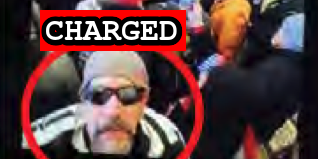
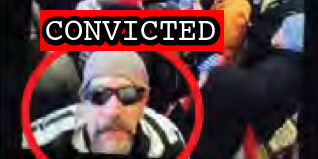
Latest import

Changed region(s): [[0.1132, 0.0503, 0.7075, 0.327]]

diff --git a/docs/_suspects/alan-byerly.md b/docs/_suspects/alan-byerly.md
@@ -4,15 +4,17 @@ lastName: Byerly
 hashtag: GreyBeanieMeanie
 aka:
 residence: Pennsylvania
-status: Indicted
+status: Convicted
 date: 2021-06-25
 charged: 2021-06-25
 indicted: 2021-08-20
-convicted:
+convicted: 2022-07-25
+acquitted:
 sentenced:
 dismissed:
 deceased:
-plea_hearing:
+plea_hearing: 2022-07-25
+trial_date:
 sentencing:
 age: 54
 occupation:
@@ -31,14 +33,25 @@ description: Click for latest case details. Suspects innocent until proven guilt
 author: seditiontrack
 layout: suspect
 published: true
-caseNumber:
+caseNumber: 1:21-cr-527
 videos:
 charges:
+  - code: 18 USC § 111(a)(1)
+    title: Assaulting, resisting, or impeding certain officers or employees
+    url: https://www.law.cornell.edu/uscode/text/18/111
+    felony: true
+  - code: 18 USC § 113(a)(4)
+    title: Assault by striking, beating or wounding
+    url: https://www.law.cornell.edu/uscode/text/18/113
+    felony: false
 sentence:
 ---
+
 - [News Report](https://philadelphia.cbslocal.com/2021/07/07/alan-william-byerly-capitol-riots-arrest/)
 - [Statement of Facts](https://www.justice.gov/usao-dc/case-multi-defendant/file/1409211/download)
 - [Incriminating Evidence (VIDEO)](https://twitter.com/capitolhunters/status/1412810756236595201)
 - [Detention Memo](https://extremism.gwu.edu/sites/g/files/zaxdzs2191/f/Alan%20Byerly%20Government%20Motion%20and%20Memorandum%20for%20Pretrial%20Detention.pdf)
-- [Indictment](https://extremism.gwu.edu/sites/g/files/zaxdzs2191/f/Alan%20Byerly%20Indictment.pdf)
+- [Indictment](https://www.justice.gov/usao-dc/case-multi-defendant/file/1521751/download)
 - [Sentencing Memo](https://extremism.gwu.edu/sites/g/files/zaxdzs2191/f/Alan%20Byerly%20Government%20Motion%20and%20Memorandum%20for%20Pretrial%20Detention.pdf)
+- [Plea Agreement](https://www.justice.gov/usao-dc/case-multi-defendant/file/1521796/download)
+- [Statement of Offense](https://www.justice.gov/usao-dc/case-multi-defendant/file/1521801/download)

diff --git a/docs/_suspects/james-mels.md b/docs/_suspects/james-mels.md
@@ -4,11 +4,12 @@ lastName: Mels
 hashtag: JamesMels
 aka:
 residence: Michigan
-status: Charged
+status: Convicted
 date: 2021-02-11
 charged: 2021-02-11
 indicted:
-convicted:
+convicted: 2022-07-22
+acquitted:
 sentenced:
 dismissed:
 deceased:
@@ -35,9 +36,15 @@ published: true
 caseNumber: 1:21-cr-184
 videos:
 charges:
+  - code: 18 USC § 1752(a)(1)
+    title: Entering a restricted building or grounds
+    url: https://www.law.cornell.edu/uscode/text/18/1752
+    felony: false
 sentence:
 ---
 
 - [News Report](https://www.freep.com/story/news/local/michigan/macomb/2021/02/11/us-capitol-riot-james-mels-michigan/6721642002/)
 - [Statement of Facts](https://www.justice.gov/doj/case-multi-defendant/file/1366576/download)
-- [Information](https://www.justice.gov/usao-dc/case-multi-defendant/file/1377811/download)
+- [Information](https://www.justice.gov/usao-dc/case-multi-defendant/file/1521731/download)
+- [Plea Agreement](https://www.justice.gov/usao-dc/case-multi-defendant/file/1521736/download)
+- [Statement of Offense](https://www.justice.gov/usao-dc/case-multi-defendant/file/1521741/download)
